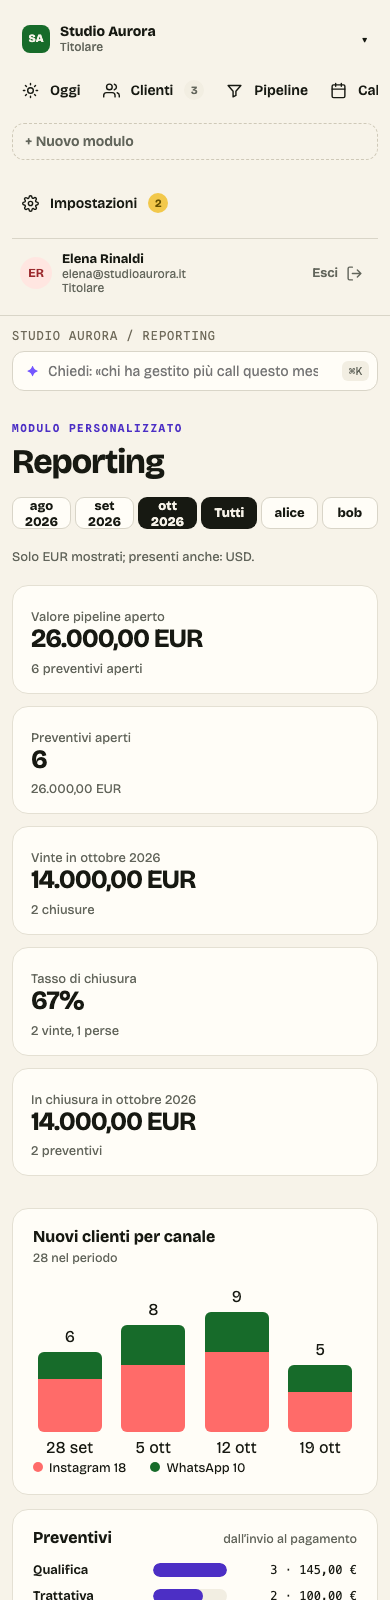
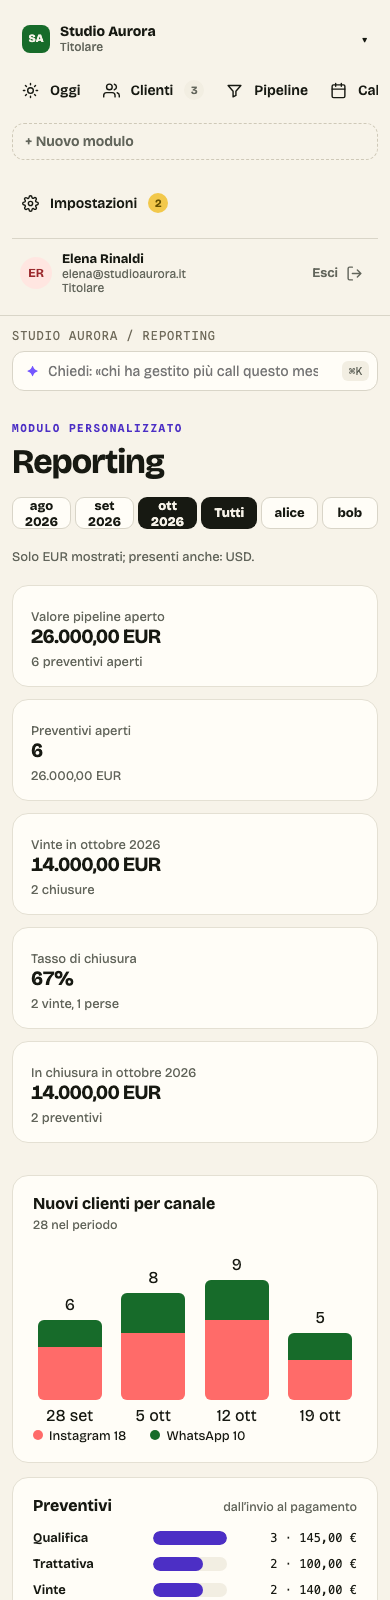
bo: scheda goes two-up below 1100px with the timeline on top, unknown channels get a neutral tile, reporting figures wrap instead of clipping
Review follow-ups on #412. Admin and bo-shots suites on this head: 665 tests, 665 pass, 0 fail.

Claude-Session: https://claude.ai/code/session_01U2V3GE4czYXfWX5N5yuHkk

Changed region(s): [[0.0615, 0.75, 0.9231, 1.0], [0.0615, 0.375, 0.5231, 0.7188]]

diff --git a/apps/admin/public/styles.css b/apps/admin/public/styles.css
@@ -520,6 +520,10 @@ a.bo-nav-item:hover { background: var(--surface-soft); }
 .bo-scheda-card-offer .bo-scheda-offer { font-size: 16px; font-weight: 700; }
 .bo-scheda-error { display: grid; gap: 8px; }
 
+@media (max-width: 1100px) {
+  .bo-scheda-grid { grid-template-columns: repeat(2, minmax(0, 1fr)); }
+  .bo-scheda-grid > .bo-scheda-col:nth-child(2) { grid-column: 1 / -1; order: -1; }
+}
 @media (max-width: 700px) {
   .bo-scheda-grid { grid-template-columns: minmax(0, 1fr); }
 }
@@ -1391,7 +1395,7 @@ button.ui-chip { cursor: pointer; font-family: var(--mono); }
   .bo-rep-grid { grid-template-columns: minmax(0, 1fr); }
   .bo-rep-grid > * , .bo-rep-grid > .bo-rep-wide, .bo-rep-grid > .bo-rep-narrow, .bo-rep-grid > .bo-rep-third { grid-column: 1 / -1; }
 }
-.bo-rep .metric strong { font-size: 26px; line-height: 1.1; white-space: nowrap; overflow: hidden; text-overflow: ellipsis; }
+.bo-rep .metric strong { font-size: clamp(20px, 2.2vw, 26px); line-height: 1.1; font-variant-numeric: tabular-nums; overflow-wrap: anywhere; }
 .bo-rep-grid .forecast-total { font-size: 15px; letter-spacing: 0; }
 .bo-rep-grid > .pipeline-forecast .lede, .bo-rep-grid > .pipeline-forecast p:not(.forecast-total) { font-size: 13px; }
 .bo-rep-rows.panel { margin-top: 4px; border-radius: 16px; border: 1px solid var(--line-soft); box-shadow: none; }

diff --git a/apps/admin/public/admin-customer-card.js b/apps/admin/public/admin-customer-card.js
@@ -430,8 +430,9 @@ export function createCustomerCardView(deps) {
         }
         const row = el('div', 'bo-scheda-entry');
         row.setAttribute('data-entry', String(item?.id ?? ''));
-        const mark = CARD_CHANNEL_MARKS[String(item?.channel ?? '').toLowerCase()] ?? '·';
-        row.appendChild(el('span', `bo-scheda-chan bo-tile-${String(item?.channel ?? '').toLowerCase()}`, mark));
+        const channelKey = String(item?.channel ?? '').trim().toLowerCase();
+        const known = Object.hasOwn(CARD_CHANNEL_MARKS, channelKey);
+        row.appendChild(el('span', `bo-scheda-chan bo-tile-${known ? channelKey : 'other'}`, known ? CARD_CHANNEL_MARKS[channelKey] : '·'));
         const isOutbound = String(item?.direction ?? '') === 'outbound';
         const who = isOutbound
           ? (isHumanHandle(item?.teamAuthorId) ? `inviato da ${String(item.teamAuthorId).trim()}` : 'inviato dal team')
